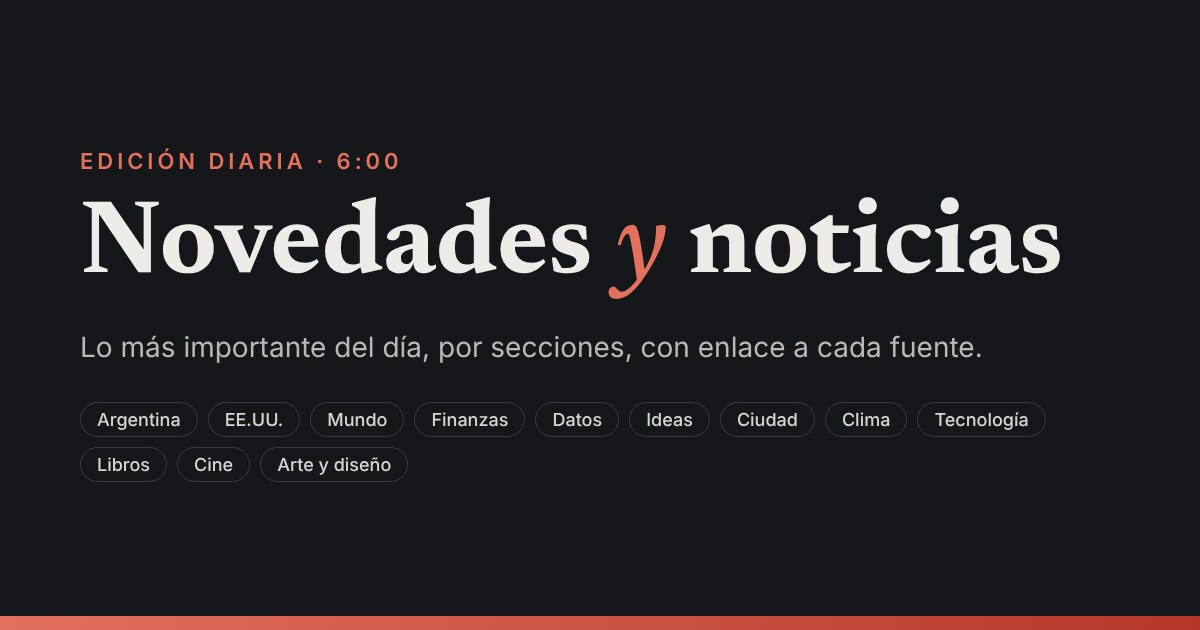
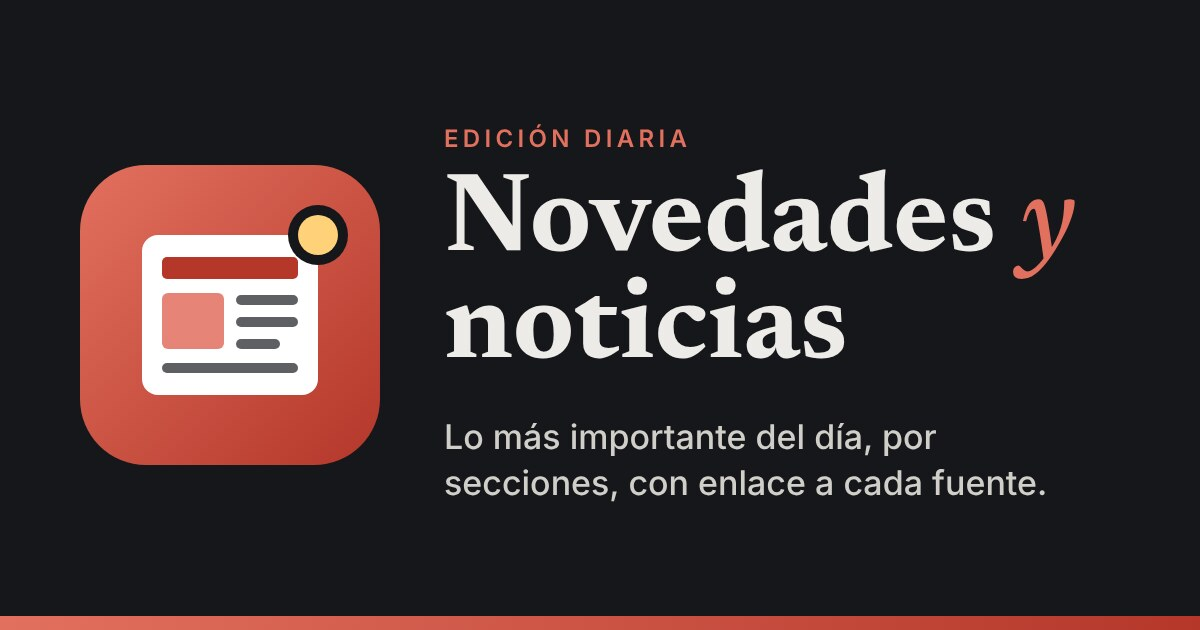
Nueva vista previa y símbolo (ícono y cabecera)
Claude-Session: https://claude.ai/code/session_01WjjyMpZyURbWXpgKQw9rHj

diff --git a/index.html b/index.html
@@ -2,6 +2,7 @@
 <html lang="es"><head>
 <meta charset="utf-8"><meta name="viewport" content="width=device-width,initial-scale=1">
 <title>Novedades y noticias</title>
+<link rel="icon" href="logo.svg" type="image/svg+xml"><link rel="apple-touch-icon" href="logo-180.png">
 <meta name="description" content="Lo más importante del día, por secciones, con enlace a cada fuente.">
 <meta property="og:type" content="website">
 <meta property="og:title" content="Novedades y noticias">
@@ -41,7 +42,7 @@ h2{font:700 24px Newsreader,serif;margin:0 0 2px;border-top:3px solid var(--tx);
 #destacado .item{border-left:4px solid var(--ac)}
 footer{max-width:1100px;margin:auto;padding:20px 18px 40px;color:var(--mut);font-size:13px}
 </style></head><body>
-<header><div class="top"><h1>Novedades <span>y</span> noticias</h1><div id="fecha"></div>
+<header><div class="top"><h1><img src="logo.svg" alt="" style="width:34px;height:34px;vertical-align:-5px;margin-right:10px">Novedades <span>y</span> noticias</h1><div id="fecha"></div>
 <select id="ed" aria-label="Edición"></select></div><nav id="nav"></nav></header>
 <main id="main"></main>
 <footer>Se actualiza todos los días a las 6 (hora de Argentina). Titulares y resúmenes breves con enlace a cada fuente.</footer>
